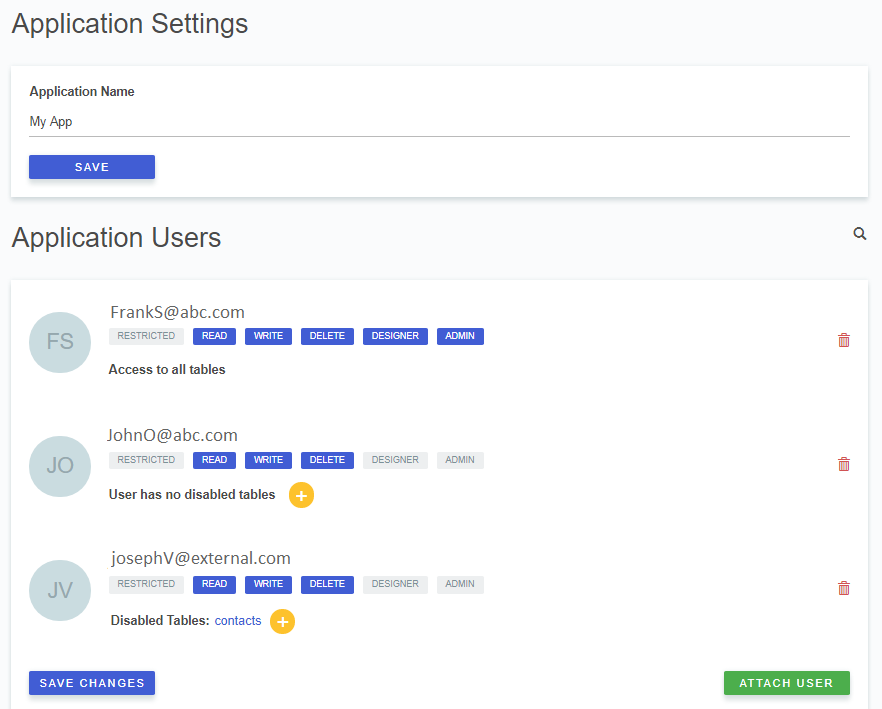
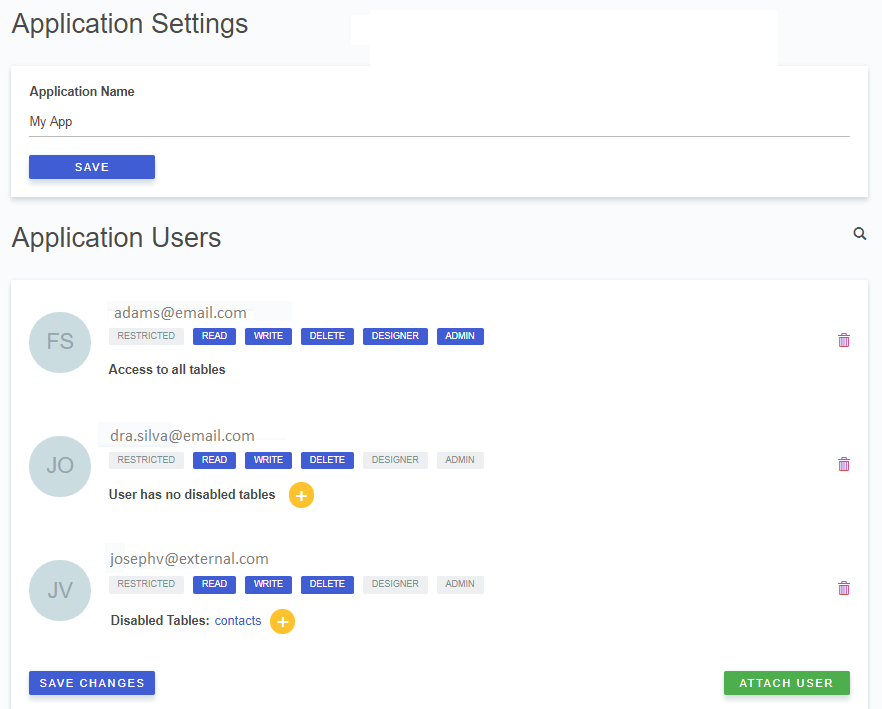
v2 with quick start thumbnails

Changed region(s): [[0.1224, 0.7757, 0.3367, 0.8068], [0.1224, 0.5896, 0.2755, 0.6206], [0.1224, 0.4344, 0.2755, 0.4654]]

diff --git a/guide.html b/guide.html
@@ -267,7 +267,7 @@
             <h3>Data Organization</h3>
             <br>
             <li>FrameLink data is organized in <b>Tables</b>. Tables contain records that hold their information in <b>Fields</b>. When you first access a FrameLink table, you see a <b>List</b> with rows as records and columns as fields.<br>
-                In <b>List Mode</b> you can easily search any record simply using a text or partial text to be found in any field. Once you find it, you may zoom into that record by clicking the left most Zoom Lens<img style="height:1.4em;" src="./img/guide_overview4_2.png" > that  appears when you hover any record. In <b>Zoom Mode</b> you see all the fields of a single record and all of its relations to other FrameLink Tables.</li><br>
+                In <b>List Mode</b> you can easily search any record simply using a text or partial text to be found in any field. Once you find it, you may zoom into that record by clicking the left most Zoom Lens<img style="height:1.4em;" src="./img/guide_icon_lens.png" > that  appears when you hover any record. In <b>Zoom Mode</b> you see all the fields of a single record and all of its relations to other FrameLink Tables.</li><br>
 
             <li>Inside a FrameLink application, you may navigate from relation to relation without searching long lists to find the information you need. You may jump directly to the information you need because related information is always close by.</li>
             <li>In most real case situations you will need to see data from several perspectives. With FrameLink you can define any number of predefined filters that present the information in the most convenient way for the end user. A simple click allows the change from one filter to another. Filters can be selected from a menu which is written in the business language of the organization - common to all users.</li>
@@ -291,7 +291,7 @@
                 <br><h3>Navigation in FrameLink</h3><br>
 
                 <li>In real life we have different strategies to search for the information we need. Searching by keyword is one way to do it, but very often you would like related information to appear immediately - one click away - without any search. That&#39;s exactly what FrameLink does. From any point in the application, you can take several alternative paths to go directly to the information you need without having to search or opening another list.</li><br>
-                <li>In both <b>List Mode</b> or <b>Zoom Mode</b> you will find fields that have a Zoom Lens<img style="height:2em;" src="./img/guide_overview4_2.png" > at the right side of the field content. These are <b>Linked Fields</b> that you can click (rightward Lens) to jump directly to <b>Zoom Mode</b>. All records in Zoom Mode have a set of tabs (below the last field) that show you all connections from the current record to other Framelink Records.</li>
+                <li>In both <b>List Mode</b> or <b>Zoom Mode</b> you will find fields that have a Zoom Lens<img style="height:2em;" src="./img/guide_icon_lens.png" > at the right side of the field content. These are <b>Linked Fields</b> that you can click (rightward Lens) to jump directly to <b>Zoom Mode</b>. All records in Zoom Mode have a set of tabs (below the last field) that show you all connections from the current record to other Framelink Records.</li>
                 <li>Once you  select the tab of the relation you want to follow, you may jump from Zoom Lens to Zoom Lens and from Tab to Tab, again and again following whichever path is more convenient for you.</li>
                 <li>This navigation process is available all over the application.</li>
                 <br>
@@ -361,9 +361,9 @@
                 </li><br><br><br><br><br><br><br>
                 <img style="height:20em;" src="./img/guide_overview3.png" align="left" alt="FrameLink blank screen">
                 <ul class="b" style="margin-left:45em;"><br>
-                    <li>In <b>List Mode</b>, as soon as your mouse hovers a row, notice that it will become sligthly darker and that a Trash Bin<img style="height:2em;" src="./img/guide_overview4_1.png" >and a Zoom Lens<img style="height:2em;" src="./img/guide_overview4_2.png" >will appear at left.</li>
+                    <li>In <b>List Mode</b>, as soon as your mouse hovers a row, notice that it will become sligthly darker and that a Trash Bin<img style="height:2em;" src="./img/guide_overview4_1.png" >and a Zoom Lens<img style="height:2em;" src="./img/guide_icon_lens.png" >will appear at left.</li>
                     <li><img style="height:2em;" src="./img/guide_overview4_1.png" > - The <b>Trash Bin</b> is the icon you should click, if you ever want to delete that row.</li>
-                    <li><img style="height:2em;" src="./img/guide_overview4_2.png" > - The <b>Zoom Lens</b> is the icon you must click to enter <b>Zoom Mode</b>, where you will see the content of that row isolated in the screen. The Zoom Mode is particularly important in FrameLink because it is the point where you see the relations between a given record and any other records in other Framelink Tables.</li>
+                    <li><img style="height:2em;" src="./img/guide_icon_lens.png" > - The <b>Zoom Lens</b> is the icon you must click to enter <b>Zoom Mode</b>, where you will see the content of that row isolated in the screen. The Zoom Mode is particularly important in FrameLink because it is the point where you see the relations between a given record and any other records in other Framelink Tables.</li>
                 </ul><br><br>
                 <br><h3>Entering Zoom Mode</h3><br>
                 <li>In Zoom Mode you see all fields from the current 'zoomed' record.</li><br>
@@ -380,8 +380,8 @@
     <script id="c_linking_tables_item" type="text/template" >
         <ul style="margin-left: 5em;margin-right: 5em;margin-top:-0em;" align="left">
             <li>With FrameLink, you can create relationships between individual records. The interesting thing is that you can create those relationships while you are introducing your data - without leaving the current screen.</li>
-            <li>The field interface corresponding to a <b>"linked Field"</b> is pulldown menu where you can find any record and select it or introduce a new record in a table other than the current table.</li>
-            <li>If you need to define a new field in that other table, you simply follow the link by pressing the Zoom Lens<img style="height:2em;" src="./img/guide_overview4_2.png" > at the right side of the field content, and then select the "Add Field" icon to define the new field and fill in the new content. No previous preparation is needed to perform these operations.</li>
+            <li>The field interface corresponding to a <b>"linked Field"</b> is a pulldown menu where you can find any record and select it or introduce a new record in a table other than the current table.</li>
+            <li>If you need to define a new field in that other table, you simply follow the link by pressing the Zoom Lens<img style="height:2em;" src="./img/guide_icon_lens.png" > at the right side of the field content, and then select the "Add Field" icon to define the new field and fill in the new content. No previous preparation is needed to perform these actions.</li>
             <br>
             <h3>Linked records in action</h3>
             <br>
@@ -479,33 +479,45 @@
         </ul>
     </script>
     <script id="c_defining_permissions_item" type="text/template" >
-        <ul style="margin-left: 5em;margin-right: 38em;margin-top:-0em;">
+        <ul style="margin-left: 5em;margin-right: 36em;margin-top:-0em;">
             <li>
-                <p style="text-align:left;text-align:top;" >To define permissions to your FrameLink application, click <b>Settings</b> (the cog icon) and then <b>Application Administration</b>.</p>
+                <p style="text-align:left;text-align:top;" >Define permissions to your FrameLink application by clicking <b>Settings</b> (<img style="height:2em;" src="./img/guide_icon_cog.png" >the cog icon) and then <b>Application Administration</b>.<br>[Click FrameLink Icon at the upper left corner if you don&#39;t see the <img style="height:2em;" src="./img/guide_icon_cog.png" > icon].</p>
                 <div style="margin-left:80em;margin-right:2em;text-align:top;margin-top:-4em;"> <iframe width="585" height="328" align="right" src="https://www.youtube-nocookie.com/embed/BzlPjo3ppc8?rel=0&amp;showinfo=0" frameborder="0" allow="autoplay; encrypted-media" allowfullscreen></iframe>
                 </div>
                 <p style="text-align:left;margin-top:4em;" ><center><img src="./img/guide_permissions1.png" alt="accessing permissions"></center></p>      
                 <p align="left" >You will access a screen where you can change your application name and define all users, each one with their unique set of permissions.</p>
-                <center><img src="./img/guide_permissions2.png" alt="accessing permissions"></center>
+                <img src="./img/guide_permissions2_1.png" alt="accessing permissions">
 
-                <p>The upper area of the window allows you to change the application name. Below that area, you have a list with all application users.<br>Notice the 3 users that can use this application:</p>
-                <ul class="b" style="margin-left:2em;">
-                    <li><b>FrankS@abc.com</b> - Frank has full access to all application. Besides read, write and delete data, Frank has "DESIGNER" and "ADMIN" permissions.
+                <p align="left">The upper area of the window allows you to change the application name. Below that area, you have a list with all application users and their permissions.<br>Notice the 3 users that can use this application:</p>
+                <ul class="b" style="margin-left:2em;text-align:left;">
+                    <li><b>adams@email.com</b> - Adam has full access to all application. Besides read, write and delete data, Adam has "DESIGNER" and "ADMIN" permissions.
                         <ul class="a" style="margin-left:2em;">
                             <li>
-                                As a DESIGNER Frank is able to change the whole structure of the application. Frank can create new tables, delete existing tables, update any table name, create new fields or delete existing fields of any table or update their names.
+                                As a DESIGNER Adam is able to change the whole structure of the application. Adam can create new tables, delete existing tables, update any table name, create new fields or delete existing fields of any table or update their names.
                             </li>
                             <li>
-                                As an ADMIN (administrator) Frank will be able to create users, delete users or update permissions of any existing user.
+                                As an ADMIN (administrator) Adam will be able to create users, delete users or update permissions of any existing user.
                             </li>
                         </ul>        
                     </li>
-                    <li><b>JohnO@abc.com</b> - John is a regular application user. He can read, write and delete data in any application table. He will use the application structure that was defined by Frank. He is not a "DESIGNER" nor an "ADMIN".</li>
-                    <li><b>josephV@external.com</b> - Joseph is someone that can do the same as John, but has no access to the 'contacts' table.
+                    <li><b>dr.silva@email.com</b> - Dr. Silva is a regular application user. She can read, write and delete data in any application table. She will use the application structure exactly as defined by Adam. She&#39;s not a "DESIGNER" nor an "ADMIN".</li>
+                    <li><b>josephV@external.com</b> - Joseph is someone that can do the same as Dr.Silva, but has no access to the 'contacts' table.<br>Adam (the "ADMIN"), can easily add or remove tables from Joseph&#39;s <b>list of disabled tables</b>: 
+                        <ul class="a" style="margin-left:2em;">
+                            <li>
+                                By clicking the <img style="height:1.5em;" src="./img/guide_icon_yellow_plus.png" > icon, and selecting another table to disable. The list of disabled tables will show the full list of disabled tables.
+                            </li>
+                            <li>
+                                By clicking the name of the table to re-enable, from the <b>list of disabled tables</b>. The reverted table will disappear from the list of disabled tables.
+                            </li>
+                        </ul>
+                        <br>
+                        Adam (the "ADMIN"), can also restrict Joseph from deleting any data content, simply by clicking the blue "Delete" permission from Joseph list of rights.<br> 
+                        Adam can also restrict Joseph from any changes (giving him only "read" access) by clicking the blue "Write" and the blue "Delete" permission from Joseph list of rights.<br>
+                        Adam can revert any of these restrictions simply by clicking the permission to revert. Gray permissions (disabled) will become blue (enabled).
                     </li>
                 </ul>    
                 <br>
-                <p>The Administrator can define permissions for each user on how to manage the database content and which tables and records are accessible.</p> 
+                <p align="left">The Administrator can define permissions for each user on how to manage the database content and which tables and records are accessible.</p> 
                 <center><img src="./img/guide_permissions3.png" alt="permissions per user"></center> 
             </li>
         </ul>
